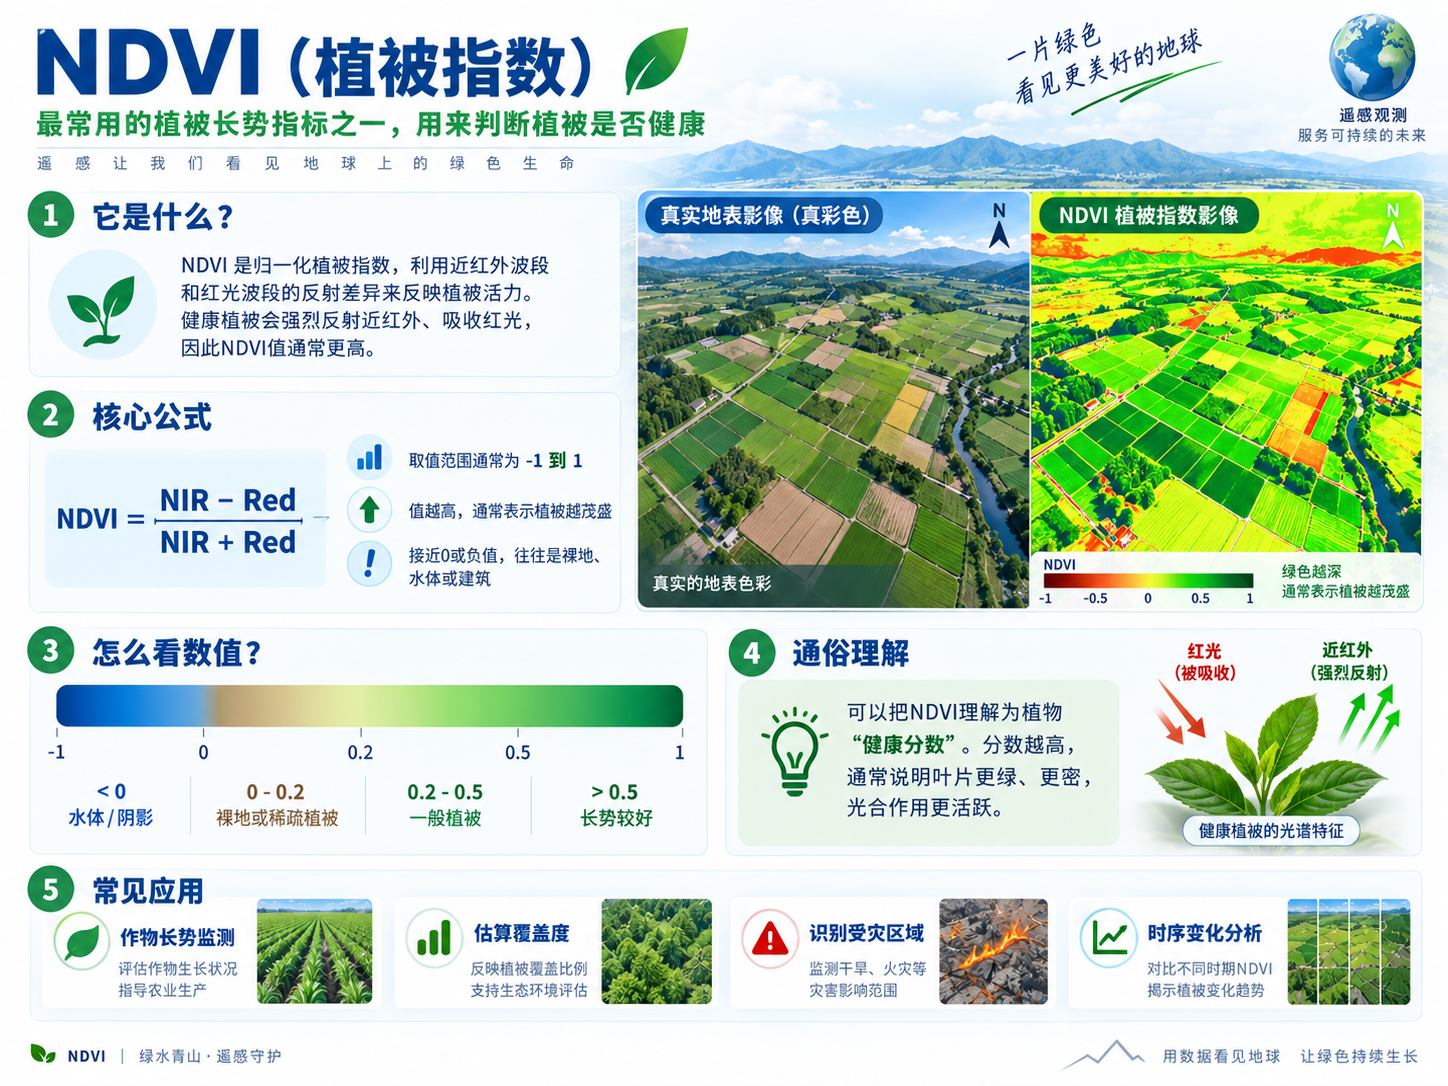
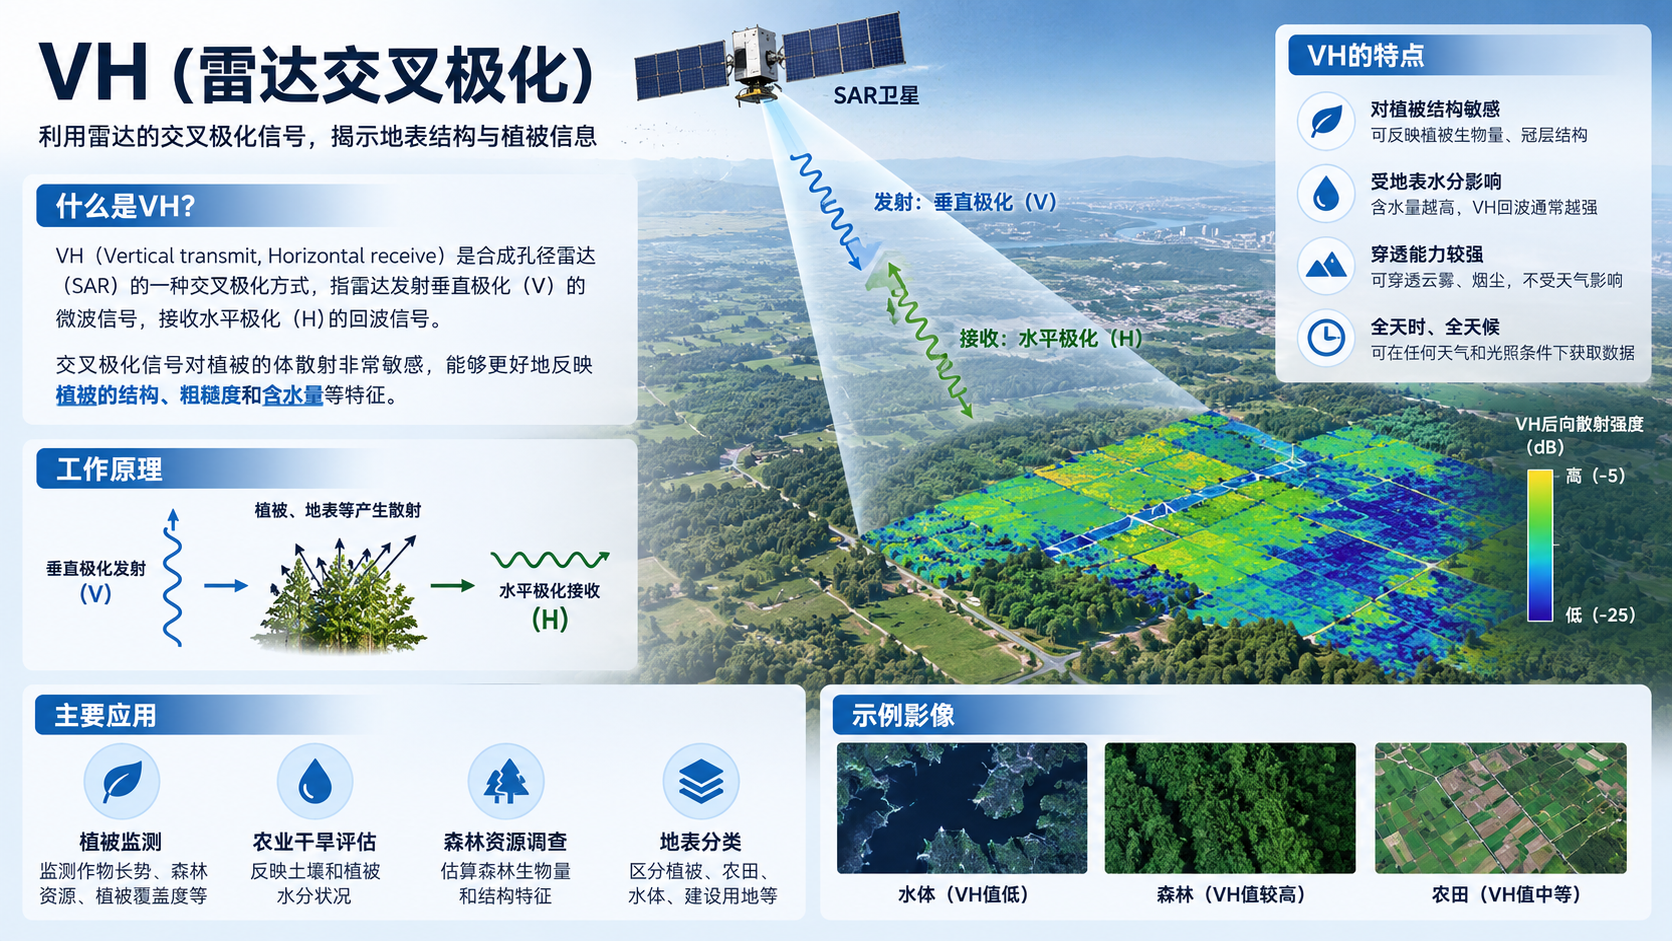
feat(web): put 指数说明 by panel title; swap remaining pro glossary art
Move glossary trigger next to the timeseries card title so it stays visible
and does not compete with index chips. Wire NDRE/VH/NDMI/MNDWI/CIRE/VV/NDVI
professional plates; NDMI temporarily falls back until a dedicated plate is resent.

diff --git a/apps/web/src/components/field/agri-index-glossary.tsx b/apps/web/src/components/field/agri-index-glossary.tsx
@@ -66,110 +66,110 @@ export const GLOSSARY_ENTRIES: GlossaryEntry[] = [
     {
         key: "sentinel2",
         title: "哨兵二号（Sentinel-2）",
-        subtitle: "光学多光谱 · 植被与水体指数来源",
-        body: "【它是什么】ESA Copernicus 光学多光谱卫星（MSI，约 13 个波段），双星协同。\n\n【怎么看】空间分辨率约 10/20/60 m，重访约 5 天。晴空白天成像清晰；云、雾、夜间会缺数据或噪声增大。\n\n【应用】本面板 NDVI、EVI、NDMI、NDRE、CIRE、MNDWI 及干旱等光学指数主要来自它。",
-        tip: "云量高时光学参考价值下降，可改看哨兵一号雷达（VV/VH/洪涝）。",
+        subtitle: "光学多光谱 · 10/20/60 m · 约 5 天重访",
+        body: "哨兵二号是欧空局 Copernicus 计划的光学多光谱卫星，搭载 MSI 传感器，约 13 个波段覆盖可见光、红边、近红外与短波红外。\n\n双星组网重访约 5 天，空间分辨率 10/20/60 m，适合农田、水体与地表覆盖监测。本面板的 NDVI、EVI、NDMI、NDRE、CIRE、MNDWI 与干旱等光学指数主要来自它。\n\n有云、雾或夜间时光学观测受限，图上可能缺数或质量偏差；晴空日最适合看长势与真彩色。",
+        tip: "云多时改看哨兵一号雷达（VV/VH/洪涝）。",
         imageSrc: "/glossary/sentinel-s2.png",
-        imageAlt: "哨兵二号光学卫星示意",
+        imageAlt: "哨兵二号多光谱说明",
     },
     {
         key: "sentinel1",
         title: "哨兵一号（Sentinel-1）",
-        subtitle: "C 波段 SAR · 全天时全天候",
-        body: "【它是什么】ESA Copernicus C 波段合成孔径雷达（SAR），主动微波成像。\n\n【怎么看】全天时、全天候、可穿云；回波强度敏感于地表粗糙度、水分与形变。平静水面回波弱（偏暗），粗糙面或体散射更强。\n\n【应用】本面板 VV、VH 与洪涝识别的主要数据来源。",
-        tip: "怀疑积水或连阴天时，优先看洪涝 / VV，不必等待晴空光学。",
+        subtitle: "C 波段 SAR · 全天时全天候 · 可穿云",
+        body: "哨兵一号是 Copernicus 的主动微波雷达卫星（C 波段 SAR），主动发射并接收回波，不依赖阳光。\n\n可穿透云层与薄雨雾，昼夜均可观测，对地表粗糙度、水分与几何结构敏感。本面板的 VV、VH 与洪涝主要来自它。\n\n平静水面常呈弱回波（偏暗）；植被、建筑等结构散射更强（偏亮）。",
+        tip: "灾后积水排查不必等晴天，优先看洪涝/VV。",
         imageSrc: "/glossary/sentinel-s1.png",
-        imageAlt: "哨兵一号雷达卫星示意",
+        imageAlt: "哨兵一号雷达说明",
     },
     {
         key: "ndvi",
         title: "NDVI（归一化植被指数）",
-        subtitle: "长势与覆盖 · 公式 (NIR−Red)/(NIR+Red)",
-        body: "【它是什么】用近红外（NIR）与红光（Red）计算：NDVI = (NIR − Red) / (NIR + Red)，理论范围约 −1～1。\n\n【怎么看】偏高（色斑偏绿）通常表示植被活力强、覆盖密；偏低（偏棕）多见稀疏、未熟、受灾或裸地。水体与云影常为低值或负值。\n\n【应用】田块尺度筛查种植与长势；旺季整块长期偏低，需排查未种植或严重胁迫。可类比为「健康打分」——看趋势比单日绝对值更稳。",
-        tip: "连降多日再排查，比单看一天绝对值更可靠。",
+        subtitle: "最常用的植被长势指标",
+        body: "NDVI = (NIR − Red) / (NIR + Red)，值域通常约 −1～1。健康植被强烈反射近红外、吸收红光，NDVI 偏高。\n\n怎么看：接近 0 或负值多为水体、裸地或建筑；0.2～0.5 多为一般植被；>0.5 通常长势较好、覆盖更密。\n\n可理解为作物的「健康分」，适合生长季监测、覆盖估计与灾损对比；密植时可能饱和，可对照 EVI/NDRE。",
+        tip: "看多日趋势比单日绝对值更稳。",
         imageSrc: "/glossary/ndvi.png",
-        imageAlt: "NDVI 示意：绿高棕低",
+        imageAlt: "NDVI 专业说明图",
     },
     {
         key: "evi",
         title: "EVI（增强植被指数）",
-        subtitle: "引入蓝光校正 · 密植不易饱和",
-        body: "【它是什么】在 NDVI 思路上引入蓝光波段，并对大气与土壤背景做校正的增强植被指数。\n\n【怎么看】同样反映绿意与长势；冠层很密时 NDVI 易「顶满」分不出好坏，EVI 仍能拉开差异。稀植或刚出苗阶段二者往往接近。\n\n【应用】旺季密植地块对比长势差异时，优先参考 EVI。",
-        tip: "旺季密植田块，局部优劣对比可优先看 EVI。",
+        subtitle: "高覆盖下更稳，密植不易饱和",
+        body: "EVI 在 NDVI 基础上引入蓝光与校正项，减弱大气与土壤背景干扰，在高覆盖植被区仍能更好区分细微差异。\n\n相对 NDVI：密植不易「顶满」、抗大气干扰更强，更适合精细时序与高生物量地块。\n\n通俗理解：若 NDVI 是健康分，EVI 更像升级版评分，干扰更少、结果更稳。",
+        tip: "旺季密植地块对比长势差异可优先看 EVI。",
         imageSrc: "/glossary/evi.png",
-        imageAlt: "EVI 示意",
+        imageAlt: "EVI 专业说明图",
     },
     {
         key: "drought",
         title: "干旱",
-        subtitle: "水分长期不足 · 光学综合判读",
-        body: "【它是什么】表征作物或土壤水分长期偏紧的胁迫状态，而非单次短时缺水。\n\n【怎么看】结合植被指数下降、水分相关指数（如 NDMI/NDDI 类）等综合判读：色斑偏红、数值偏高一般更干；偏绿/偏低相对湿润。光学受云影响，需挑选低云日期。\n\n【应用】连旱时段筛查胁迫斑块；务必结合田间墒情与气象，勿单凭一日遥感下结论。",
-        tip: "连旱多日再对照气象与墒情确认，避免单日误判。",
+        subtitle: "水分长期不足对土壤与作物的胁迫",
+        body: "干旱指降水偏少、蒸发偏强或土壤失水导致可用水不足，农业上直接影响出苗、生长与产量。\n\n判读要点：土壤变干开裂、NDVI/EVI 走低、叶温升高/萎蔫，以及持续时长与影响范围。色斑越偏干（本面板多为偏红），胁迫往往越重。\n\n宜结合降水、墒情与多日光学指数综合判断，避免单日定论。",
+        tip: "连旱多日再对照田间墒情与气象更可靠。",
         imageSrc: "/glossary/drought.png",
-        imageAlt: "干旱指数示意：越红越干",
+        imageAlt: "干旱监测说明图",
     },
     {
         key: "flood",
         title: "洪涝",
-        subtitle: "地表积水 · 雷达穿云为主",
-        body: "【它是什么】地表积水（淹水）状态识别，重点服务大雨后田块与沟塘周边排查。\n\n【怎么看】哨兵一号可穿云：平静积水镜面反射，回波弱，色斑往往偏暗。大片持续偏暗且与水系相连时，积水可能性更高；刚耕耙湿土有时也会偏暗，需结合地形与时序。晴空日可用光学（如 MNDWI）辅助勾边。\n\n【应用】灾后快速摸底积水范围与消退过程。",
-        tip: "大雨后连续对照 VV/洪涝，通常比等待光学晴空更快。",
+        subtitle: "地表积水与淹没范围识别",
+        body: "洪涝由强降雨、河湖水位上涨、排水不畅或低洼积水引起，农业上易造成淹苗、根系缺氧与减产。\n\n雷达（哨兵一号）可穿云、夜间监测积水；光学（哨兵二号）在晴空日可勾画水体边界。本面板洪涝模式主要依据雷达后向散射阈值。\n\n平静积水回波弱、色斑偏暗；需结合地形、沟塘与连续日期排除湿土误判。",
+        tip: "暴雨后连续对照 VV/洪涝，比等光学晴空更快。",
         imageSrc: "/glossary/flood.png",
-        imageAlt: "洪涝雷达暗回波示意",
+        imageAlt: "洪涝监测说明图",
     },
     {
         key: "vv",
         title: "VV（雷达同极化）",
-        subtitle: "垂发垂收 · σ⁰(dB) 对水面与裸土敏感",
-        body: "【它是什么】雷达垂直发射、垂直接收的同极化通道；常用后向散射系数 σ⁰（分贝 dB）表示强度。\n\n【怎么看】平坦水面、湿润光滑土壤回波弱（σ⁰ 低、色斑偏暗）；粗糙地表或有结构时回波更强。\n\n【应用】洪涝识别、地表湿度与粗糙度变化的常用通道；可与 VH 对照解读。",
-        tip: "与 VH 对照：开阔水面常见 VV、VH 均偏弱。",
+        subtitle: "垂发垂收 · 对水面与粗糙度敏感",
+        body: "VV 表示垂直发射、垂直接收的同极化 SAR 通道，常用后向散射系数 σ⁰（dB）表征。\n\n光滑水面呈镜面反射，VV 回波弱（偏暗）；粗糙地表、植被或建筑散射更强（偏亮）。适合水体/洪涝提取、土壤湿度与地表变化监测。\n\n可理解为「竖着打出去再竖着收回来」的雷达手电筒，反映表面粗糙与含水量信息。",
+        tip: "与 VH 对照：开阔水面常 VV、VH 都偏弱。",
         imageSrc: "/glossary/vv.png",
-        imageAlt: "VV 同极化雷达示意",
+        imageAlt: "VV 雷达同极化说明图",
     },
     {
         key: "vh",
         title: "VH（雷达交叉极化）",
-        subtitle: "交叉极化 · 植株体散射更敏感",
-        body: "【它是什么】雷达垂直发射、水平接收的交叉极化通道。\n\n【怎么看】对作物茎叶等体散射更敏感：冠层茂密时 VH 往往相对抬升；裸地或光滑水面则偏弱。\n\n【应用】与 VV 联读，区分「是水、是土，还是有庄稼」；生长季走强通常提示冠层在发育。",
-        tip: "生长季 VH 走强，多与冠层发育相关；可与 VV 同屏对照。",
-        imageSrc: "/glossary/radar-vv-vh.png",
-        imageAlt: "VV 与 VH 雷达示意",
+        subtitle: "垂发横收 · 对植株体散射敏感",
+        body: "VH 表示垂直发射、水平接收的交叉极化通道，对植被冠层体散射更敏感，能反映结构、粗糙度与一定水分信息。\n\n特点：穿云全天候；水体 VH 通常很低（暗）；农田中等；森林/密植偏高（亮）。与 VV 互补，利于区分「水 / 土 / 有庄稼」。\n\n生长季 VH 走强常对应冠层发育；洪涝时积水区 VH 也偏弱。",
+        tip: "长势与结构变化可重点看 VH 时序。",
+        imageSrc: "/glossary/vh.png",
+        imageAlt: "VH 雷达交叉极化说明图",
     },
     {
         key: "ndmi",
         title: "NDMI（归一化水分指数）",
-        subtitle: "叶片与冠层含水量",
-        body: "【它是什么】用近红外与短波红外估测叶片/冠层相对含水量的光学指数。\n\n【怎么看】数值偏高、色调偏湿润，说明水分相对充足；偏低可能缺水或叶片干枯。\n\n【应用】干旱筛查与水分胁迫辅助；干旱模式也会参考它。",
-        tip: "与 NDVI 同降时，更像整体受旱或衰老，而不只是「缺绿」。",
+        subtitle: "监测植被与土壤水分状况",
+        body: "NDMI = (NIR − SWIR) / (NIR + SWIR)。近红外与短波红外对水分响应不同，用以反映叶片/冠层含水量与湿润程度。\n\n高值：水分较充足、长势相对健康；低值：偏干、干旱胁迫或土壤更干。常用于干旱监测、灌溉管理与作物水分诊断。\n\n通俗理解：像给庄稼和土壤看「有多湿」。",
+        tip: "与 NDVI 同降时，更像整体受旱或衰老。",
         imageSrc: "/glossary/ndmi.png",
-        imageAlt: "NDMI 水分示意",
+        imageAlt: "NDMI 水分指数说明图",
     },
     {
         key: "ndre",
-        title: "NDRE（红边归一化指数）",
-        subtitle: "叶绿素与早期养分胁迫",
-        body: "【它是什么】基于红边波段的植被指数，对叶绿素变化比普通 NDVI 更敏感。\n\n【怎么看】旺季若 NDVI 仍高而 NDRE 已降，可能是早期缺肥或缺素信号。\n\n【应用】封垄后排查局部黄化、长势不齐；田间取样前可先圈可疑斑块。",
-        tip: "取样前用 NDRE 圈出可疑斑块，可提高田间效率。",
-        imageSrc: "/glossary/ndre-cire.png",
-        imageAlt: "NDRE 与 CIRE 示意",
+        title: "NDRE（红边指数）",
+        subtitle: "中后期长势与叶绿素变化更敏感",
+        body: "NDRE = (NIR − RedEdge) / (NIR + RedEdge)，利用红边波段对叶绿素变化敏感，密植时比 NDVI 更不易饱和。\n\n高值：叶绿素较足、长势稳健；低值：可能缺肥、早衰或胁迫。适合玉米等作物中后期监测、氮素诊断与田块精细管理。\n\n若 NDVI 仍高而 NDRE 先掉，往往是早期养分压力信号。",
+        tip: "封垄后可用 NDRE 圈出可疑黄化斑块再取样。",
+        imageSrc: "/glossary/ndre.png",
+        imageAlt: "NDRE 红边指数说明",
     },
     {
         key: "cire",
         title: "CIRE（叶绿素红边指数）",
-        subtitle: "叶绿素密度与光合潜力",
-        body: "【它是什么】侧重叶绿素含量与光合强弱的红边指数。\n\n【怎么看】偏高通常叶片更绿、光合潜力更好；偏低可能缺肥、病害或衰老。\n\n【应用】与 NDRE 同源红边信息，可互相印证；追肥前后对比便于评估效果。",
-        tip: "追肥前后各看一次，便于评估肥效与恢复情况。",
-        imageSrc: "/glossary/ndre-cire.png",
-        imageAlt: "NDRE 与 CIRE 示意",
+        subtitle: "叶绿素含量与营养诊断",
+        body: "CIRE = (NIR / RedEdge) − 1，基于红边波段，对叶绿素浓度变化敏感。\n\n高值：叶绿素更厚实、营养与光合潜力更好；低值：可能缺素、病害或生长受抑。用于叶绿素监测、施肥决策与营养诊断。\n\n与 NDRE 同源红边信息，可互相印证；比 NDVI 更适合高生物量阶段。",
+        tip: "追肥前后各看一次，便于评估肥效。",
+        imageSrc: "/glossary/cire.png",
+        imageAlt: "CIRE 叶绿素红边说明图",
     },
     {
         key: "mndwi",
-        title: "MNDWI（改进型归一化水体指数）",
-        subtitle: "开阔水面与旱地区分",
-        body: "【它是什么】改进型归一化水体指数，专门用于识别开阔水面。\n\n【怎么看】高值/偏蓝区域更像河塘、淹水；低值多为旱地或植被。\n\n【应用】与雷达洪涝互补——光学晴空日可用 MNDWI 勾水面边界；有云时改看哨兵一号洪涝。",
-        tip: "有云时改看哨兵一号洪涝；晴空时 MNDWI 边界通常更清晰。",
+        title: "MNDWI（改进型水体指数）",
+        subtitle: "提取水体、积水与洪涝范围",
+        body: "MNDWI = (Green − SWIR) / (Green + SWIR)。用水体对绿光与短波红外的响应差，更好区分水面与建筑物、裸土等。\n\n高值：更可能是河塘、积水或洪涝区；低值：多为植被、土壤或城镇。相对传统 NDWI，城镇区抑制建筑噪声更好。\n\n与雷达洪涝互补：晴空光学日边界更清晰。",
+        tip: "有云时改看哨兵一号洪涝。",
         imageSrc: "/glossary/mndwi.png",
-        imageAlt: "MNDWI 水体示意",
+        imageAlt: "MNDWI 水体指数说明图",
     },
 ];
 
@@ -220,7 +220,7 @@ export function AgriIndexGlossary({
                     size="sm"
                     variant="outline"
                     className={cn(
-                        "h-7 shrink-0 gap-1 px-2 text-xs",
+                        "h-7 shrink-0 gap-1 px-2 text-xs border-primary/30 text-primary hover:bg-primary/10",
                         showLabel ? "sm:px-2.5" : "w-7 p-0",
                         triggerClassName,
                     )}

diff --git a/apps/web/src/components/field/agri-timeseries-panel.tsx b/apps/web/src/components/field/agri-timeseries-panel.tsx
@@ -909,9 +909,13 @@ export default function AgriTimeseriesPanel({
             <CardHeader className="pb-3 pt-3.5 px-3.5">
                 <div className="flex items-start justify-between gap-3">
                     <div className="min-w-0 space-y-1">
-                        <CardTitle className="flex items-center gap-1.5 text-sm font-semibold tracking-tight">
+                        <CardTitle className="flex flex-wrap items-center gap-1.5 text-sm font-semibold tracking-tight">
                             <Satellite className="h-3.5 w-3.5 shrink-0 text-primary" />
-                            {t("title")}
+                            <span>{t("title")}</span>
+                            <AgriIndexGlossary
+                                initialKey={series}
+                                triggerClassName="h-6 ml-0.5 font-normal"
+                            />
                         </CardTitle>
                         <p className="text-[11px] leading-snug text-muted-foreground">
                             {t("subtitle", {
@@ -1069,15 +1073,11 @@ export default function AgriTimeseriesPanel({
                                     </DropdownMenuContent>
                                 </DropdownMenu>
                             )}
-                            <AgriIndexGlossary
-                                initialKey={series}
-                                triggerClassName="ml-auto"
-                            />
                             <Button
                                 type="button"
                                 size="sm"
                                 variant="ghost"
-                                className="h-7 w-7 p-0 shrink-0"
+                                className="h-7 w-7 p-0 shrink-0 ml-auto"
                                 title={heatmapVisible ? t("hideHeatmap") : t("showHeatmap")}
                                 onClick={() => {
                                     setHeatmapVisible((v) => {
